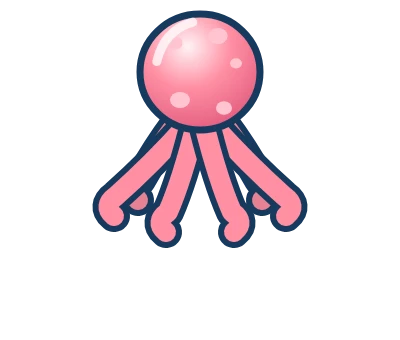
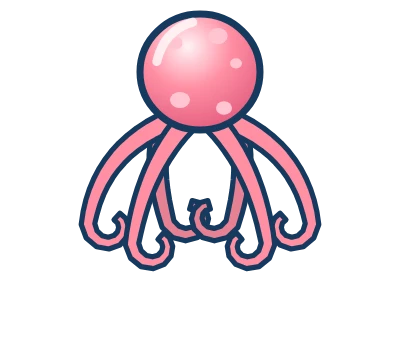
Poulpy art review fixes: tapered curling tentacles, 8 arms, draped riding pose, whale/crab back views
- octo(): tentacles are filled tapering shapes ending in a curl (no more dog-bone tips), eight arms,
  staggered side-view roots, eye/mouth inside the mantle; seated pose drapes over the shell
- octoBack(): tentacles follow the shell dome in the race
- rivalWhale(): no side eyes from behind, big flukes low in front; rivalCrab(): pupils look away
- probes/racerivals.cjs: overtake margin 3 -> 15 segments (3 was 0.06 s at race speed: flaky)

Claude-Session: https://claude.ai/code/session_01H1rB3GSkZ4P6xJjSdrWs99

Changed region(s): [[0.18, 0.3235, 0.81, 0.7941]]

diff --git a/index.html b/index.html
@@ -11,12 +11,12 @@
   <meta name="apple-mobile-web-app-status-bar-style" content="black-translucent" />
   <meta name="apple-mobile-web-app-title" content="Poulpy" />
   <title>Poulpy</title>
-  <link rel="manifest" href="manifest.webmanifest?v=v3" />
-  <link rel="icon" type="image/png" href="assets/favicon.png?v=v3" />
-  <link rel="apple-touch-icon" href="assets/apple-touch-icon.png?v=v3" />
+  <link rel="manifest" href="manifest.webmanifest?v=v4" />
+  <link rel="icon" type="image/png" href="assets/favicon.png?v=v4" />
+  <link rel="apple-touch-icon" href="assets/apple-touch-icon.png?v=v4" />
   <link rel="preload" href="vendor/fonts/fredoka-latin.woff2" as="font" type="font/woff2" crossorigin />
-  <link rel="stylesheet" href="engine.css?v=v3" />
-  <link rel="stylesheet" href="style.css?v=v3" />
+  <link rel="stylesheet" href="engine.css?v=v4" />
+  <link rel="stylesheet" href="style.css?v=v4" />
 </head>
 <body>
   <!-- Home: full-screen splash + bottom sheet -->
@@ -103,9 +103,9 @@
   <!-- Night veil ("rest" transition), fullscreen -->
   <div id="night-veil"></div>
 
-  <script src="vendor/phaser.min.js?v=v3"></script>
-  <script src="game.config.js?v=v3"></script>
-  <script src="game.i18n.js?v=v3"></script>
-  <script src="engine.js?v=v3"></script>
+  <script src="vendor/phaser.min.js?v=v4"></script>
+  <script src="game.config.js?v=v4"></script>
+  <script src="game.i18n.js?v=v4"></script>
+  <script src="engine.js?v=v4"></script>
 </body>
 </html>

diff --git a/game.config.js b/game.config.js
@@ -27,7 +27,7 @@ window.GAME = {
     tagline: "Le petit poulpe de la cité sous la mer !",
     saveKey: "poulpy",
     audience: { minAge: 6, maxAge: 8, notes: "young kids 6–8: gentle, cute, no violence, almost no reading needed" },
-    assetVersion: "v3",
+    assetVersion: "v4",
     theme: { home: "#0e4c86", play: "#1670a8", closeup: "#0e4c86" },
     showCoins: true,
     coinIcon: "pearl",
